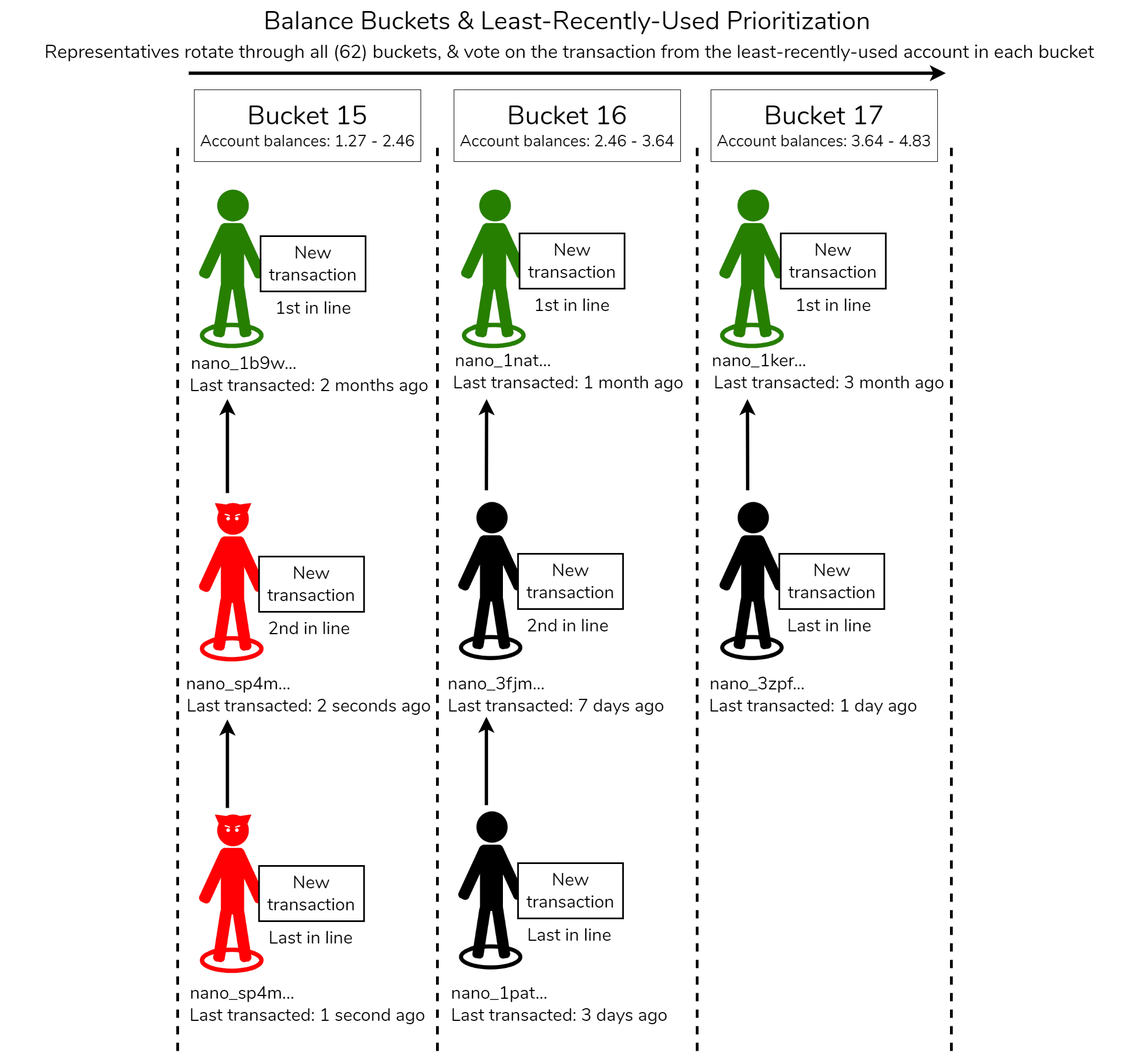
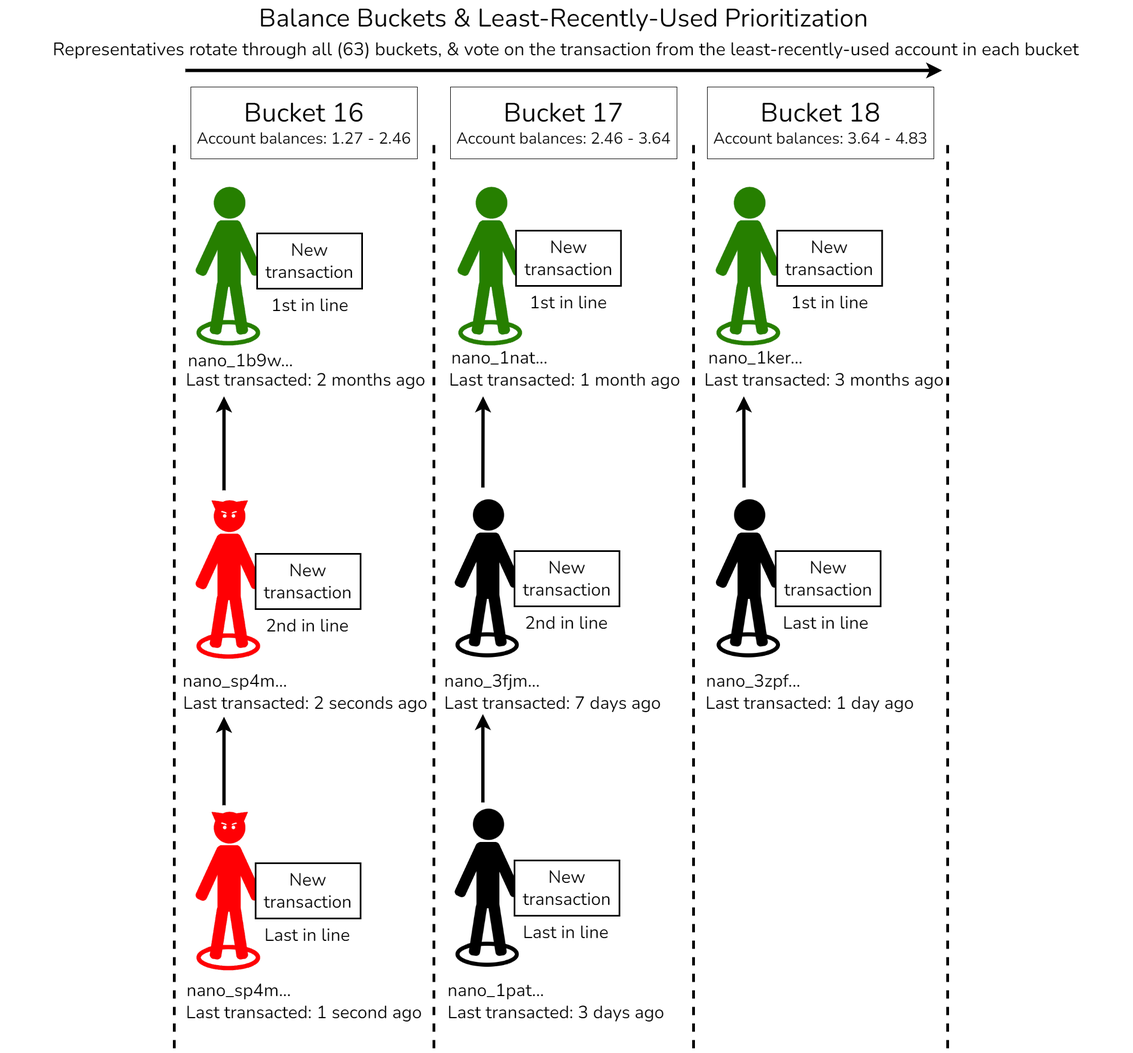
Update "Spam, Work, & Prioritization" page (#706)
Update bucket info & table with V27 numbers

diff --git a/docs/protocol-design/spam-work-and-prioritization.md b/docs/protocol-design/spam-work-and-prioritization.md
@@ -11,6 +11,33 @@ A spam transaction is loosely defined as a block broadcasted with the intent to 
 
 In addition to proof-of-work, another key component of Nano's defense against spam is transaction prioritization using a round-robin balance-bucket system, combined with least-recently-used (LRU) prioritization within those buckets. This system ensures that spam does not prevent legitimate users from making transactions & achieving fast confirmation, which in turn removes some of the incentives to spam (e.g. network disruption). See the [prioritization details](#prioritization-details) & [prioritization buckets](#prioritization-buckets) sections below for more information. While prioritization can be considered a "Node Implementation" topic, it's included in this "Protocol Design" discussion due to its relevance to spam resistance.
 
+## Spam resistance features
+
+Below is a list of some of Nano's key spam mitigation features.
+
+| **Feature** | **Description** | **Version** |
+| - | - | - |
+| [bandwidth_limit](https://github.com/nanocurrency/nano-node/pull/2035) | Restricts outbound bandwidth to a user-configurable limit. 10 MB/s by default. | V19+ |
+| [Balance tiers (buckets)](https://github.com/nanocurrency/nano-node/pull/3208) | As of V27, there are 63 balance tiers (buckets) that nodes rotate through in a round-robin manner. Spamming a single bucket (e.g. Ӿ0.0001) has minimal impact on accounts in other buckets (e.g. Ӿ1, Ӿ5, etc). See [prioritization details](#prioritization-details) below. | V22+ |
+| [Bootstrap limits](https://github.com/nanocurrency/nano-node/pull/4158) | Configurable ascended bootstrapper limits via requests_limit, database_requests_limit, pull_count, timeout, [bootstrap_bandwidth_limit](https://github.com/nanocurrency/nano-node/blob/develop/nano/node/nodeconfig.hpp#L129-L130), [bootstrap_connections_max](https://github.com/nanocurrency/nano-node/blob/develop/nano/node/nodeconfig.hpp#L100-L101), etc. Default outbound bootstrap traffic limit is 5MB/s. Default max incoming bootstrap connections count is 64 (lower values save IOPs & bandwidth). | V25+ |
+| [Bounded active election buckets](https://github.com/nanocurrency/nano-node/pull/4626) | Limits election bucket size and allows for dynamically dropping and scheduling higher priority elections. Buckets can be configured to opportunistically use more available space if AEC is underutilized. | V27+ |
+| [Bounded unchecked memory table](https://github.com/nanocurrency/nano-node/pull/3835) | Add a memory container for unchecked blocks once the initial bootstrap threshold is reached, with blocks pruned in FIFO order. Limited to two items per dependency. | V23.3+ |
+| [Fair queueing](https://github.com/nanocurrency/nano-node/pull/4476) | Each peer (node) & each component (e.g. [block processor](https://github.com/nanocurrency/nano-node/pull/4476), [vote processor](https://github.com/nanocurrency/nano-node/pull/4536), [bootstrap server](https://github.com/nanocurrency/nano-node/pull/4584), [request aggregator](https://github.com/nanocurrency/nano-node/pull/4598), etc) gets its own small queue with a configurable size & priority. Nodes process these queues in a (weighted) round robin manner. This ensures that even when network is under stress, data coming from well-behaved peers is ingested quickly. | V27+ |
+| [Final vote replies](https://github.com/nanocurrency/nano-node/pull/4648) | For blocks that are marked as final or confirmed, nodes will only respond with final votes (not non-final votes). This signficantly reduces network (specifically voting) traffic. | V27+ |
+| [Hinted elections](https://github.com/nanocurrency/nano-node/pull/3944) | A percentage of election slots are reserved for hinted elections, meaning that nodes start elections for transactions with a high vote weight, regardless of individual node priority. This allows the network to progress forward on confirmations, keeping the network in sync. | V24+ |
+| [Hinted elections for dependencies](https://github.com/nanocurrency/nano-node/pull/4312) | The hinted election scheduler now detects cases when the node falls behind the network and is missing confirmations for block dependencies, and then activates elections for the blocks that were missed. | V26+ |
+| [is_originator flag](https://github.com/nanocurrency/nano-node/pull/4654) | Adds a flag to publish messages that identifies if a block is from a node that performed the initial flooding. Helps ensure original blocks get priority over republished blocks. | V27+ |
+| [Lazy bootstrapping](https://github.com/nanocurrency/nano-node/pull/1332) | Similar to optimistic elections, but for bootstrapping. Passively listens for votes on the real-time network, and confirms block dependencies if the (more recent) block is confirmed. | V17+ |
+| [Least-Recently Used (LRU) Prioritization](https://github.com/nanocurrency/nano-node/pull/3208) | Within a given balance tier (bucket), the least-recently-used account has the highest priority. | V22+ |
+| [Local block broadcaster](https://github.com/nanocurrency/nano-node/pull/4454) | Only rebroadcast blocks during active elections. Move initial block gossip responsibility to the block originator. | V27+ |
+| [message_deserializer checks](https://github.com/nanocurrency/nano-node/blob/develop/nano/node/transport/message_deserializer.cpp) | Check for correct message formats before full processing (valid work, valid header, valid message type, valid version, valid network bytes (magic bytes), etc). | All |
+| [Optimistic elections](https://github.com/nanocurrency/nano-node/pull/4111) | If a more recent block is confirmed, all of its dependencies are also confirmed. | V25+ |
+| [Prevent requeuing of blocks with invalid signatures](https://github.com/nanocurrency/nano-node/pull/4130) | Requeueing of blocks with invalid signatures during lazy bootstrapping is not needed, since an invalid signature will always be invalid and doesn't need to be bootstrapped again. | V25+ |
+| [Proof-of-Work](https://github.com/nanocurrency/nano-node/blob/develop/nano/lib/work.cpp) | Each Nano transaction requires a small Proof-of-Work. | All
+| [Rep crawler overhaul](https://github.com/nanocurrency/nano-node/pull/4449#issuecomment-1968919321) | Consistently find representatives, even when vote requests are unreliable | V27+ |
+| [Vote by hash](https://github.com/nanocurrency/nano-node/pull/1025) | Instead of voting with a full block (256 bytes), representatives vote with block hashes (32 bytes), and batch these hashes. As of V27, nodes can vote for up to [255 hashes](https://github.com/nanocurrency/nano-node/pull/4683) in a single vote. | V15+ |
+| [(Future) Additional improvements](https://github.com/nanocurrency/nano-node/issues/4262) | See list of potential future improvements that have been noted for additional research. | Future |
+  
 ## Work algorithm details
 
 Every [block](../blocks) includes a work field that must be correctly populated. Valid work is obtained by randomly guessing a nonce such that:
@@ -47,12 +74,12 @@ Additional requirements of parameter flexibility, constrained parallelism, and b
 
 ## Prioritization details
 
-As of V24, Nano representatives rotate (round-robin) through 62 balance-based buckets when voting on transactions, and the least-recently-used (LRU) accounts in each bucket have the most priority (within their bucket). For example, if an account with 1 XNO and another account with 5 XNO both make two transactions, Nano representatives will vote on one transaction from the 1 XNO bucket, and one transaction from the 5 XNO bucket, before voting on a second transaction from the same bucket. Furthermore, the least-recently-used account within a bucket has the most priority (in that bucket), so after an account makes a transaction it gets moved to the back of the line behind everyone else (in that bucket). This means that if an attacker tries to send thousands of transactions from an account that only has 0.00001 Nano (for example), other accounts in the 0.00001 bucket that don't make frequent transactions will have priority over the spam, and the 0.00001 bucket spam will have no impact on accounts in other balance-buckets (e.g. 1 XNO).
+As of V27, Nano representatives rotate (round-robin) through 63 balance-based buckets when voting on transactions, and the least-recently-used (LRU) accounts in each bucket have the most priority (within their bucket). For example, if an account with 1 XNO and another account with 5 XNO both make two transactions, Nano representatives will vote on one transaction from the 1 XNO bucket, and one transaction from the 5 XNO bucket, before voting on a second transaction from the same bucket. Furthermore, the least-recently-used account within a bucket has the most priority (in that bucket), so after an account makes a transaction it gets moved to the back of the line behind everyone else (in that bucket). This means that if an attacker tries to send thousands of transactions from an account that only has 0.00001 Nano (for example), other accounts in the 0.00001 bucket that don't make frequent transactions will have priority over the spam, and the 0.00001 bucket spam will have no impact on accounts in other balance-buckets (e.g. 1 XNO).
 
 !!! info "Balance-based Buckets"
 	Prioritization buckets are split by _account balances_, not transaction amounts
 
-Prior to V24, there were 129 balance buckets[^4], with the majority (89) of those buckets being for balances under 0.0003. Since most legitimate users tend to have balances larger than that, this meant that most of the balance buckets were minimally used. In V24 however, there are now 62 balance buckets[^3][^5], & account balances under 0.0003 all share the same bucket. This means that there are a lot more buckets for typical real-world account balances now, which helps prioritize legitimate transactions over spam.
+Prior to V24, there were 129 balance buckets[^4], with the majority (89) of those buckets being for balances under 0.0003. Since most legitimate users tend to have larger balances, most of these 89 balance buckets were minimally used. In V24 this was updated to 62 balance buckets[^3][^5], & account balances under 0.0003 shared the same bucket. This created more buckets around typical real-world account balances, helping prioritize legitimate transactions over spam. V27 added an additional bucket (Ӿ0.000001 to Ӿ0.0003) to account for common wallet and faucet minimums[^6].
 
 The following image illustrates the balance bucket & least-recently-used prioritization process:
 
@@ -60,72 +87,73 @@ The following image illustrates the balance bucket & least-recently-used priorit
 
 ## Prioritization buckets
 
-Here are the 62 balance buckets in the reference node implementation, based on the V24 source code[^3].
+Here are the 63 balance buckets in the reference node implementation, based on the V27 source code[^6]. Table values truncated for readability:
 
 | **Bucket Number** | **Bucket Region (uint128)** | **Bucket Range (Nano)** | **Bucket Range (Raw)** |
-| - | - | - | - |
-| 0 | 0 - 2^88 |0.0 - 0.0003094850098213451 | 0 - 309485009821345068724781056 |
-| 1 | 2^88 - 2^92 | 0.0003094850098213451 - 0.002630622583481433 | 309485009821345068724781056 - 2630622583481433084160638976 |
-| 2 | 2^88 - 2^92 | 0.002630622583481433 - 0.0049517601571415215 | 2630622583481433084160638976 - 4951760157141521099596496896 |
-| 3 | 2^92 - 2^96 | 0.0049517601571415215 - 0.023520860746422224 | 4951760157141521099596496896 - 23520860746422225223083360256 |
-| 4 | 2^92 - 2^96 | 0.023520860746422224 - 0.042089961335702926 | 23520860746422225223083360256 - 42089961335702929346570223616 |
-| 5 | 2^92 - 2^96 | 0.042089961335702926 - 0.06065906192498363 | 42089961335702929346570223616 - 60659061924983633470057086976 |
-| 6 | 2^92 - 2^96 | 0.06065906192498363 - 0.07922816251426434 | 60659061924983633470057086976 - 79228162514264337593543950336 |
-| 7 | 2^96 - 2^100 | 0.07922816251426434 - 0.22778096722850996 | 79228162514264337593543950336 - 227780967228509970581438857216 |
-| 8 | 2^96 - 2^100 | 0.22778096722850996 - 0.3763337719427556 | 227780967228509970581438857216 - 376333771942755603569333764096 |
-| 9 | 2^96 - 2^100 | 0.3763337719427556 - 0.5248865766570012 | 376333771942755603569333764096 - 524886576657001236557228670976 |
-| 10 | 2^96 - 2^100 | 0.5248865766570012 - 0.6734393813712468 | 524886576657001236557228670976 - 673439381371246869545123577856 |
-| 11 | 2^96 - 2^100 | 0.6734393813712468 - 0.8219921860854925 | 673439381371246869545123577856 - 821992186085492502533018484736 |
-| 12 | 2^96 - 2^100 | 0.8219921860854925 - 0.9705449907997381 | 821992186085492502533018484736 - 970544990799738135520913391616 |
-| 13 | 2^96 - 2^100 | 0.9705449907997381 - 1.1190977955139838 | 970544990799738135520913391616 - 1119097795513983768508808298496 |
-| 14 | 2^96 - 2^100 | 1.1190977955139838 - 1.2676506002282295 | 1119097795513983768508808298496 - 1267650600228229401496703205376 |
-| 15 | 2^100 - 2^104 | 1.2676506002282295 - 2.4560730379421947 | 1267650600228229401496703205376 - 2456073037942194465399862460416 |
-| 16 | 2^100 - 2^104 | 2.4560730379421947 - 3.6444954756561594 | 2456073037942194465399862460416 - 3644495475656159529303021715456 |
-| 17 | 2^100 - 2^104 | 3.6444954756561594 - 4.8329179133701246 | 3644495475656159529303021715456 - 4832917913370124593206180970496 |
-| 18 | 2^100 - 2^104 | 4.8329179133701246 - 6.021340351084089 |4832917913370124593206180970496 - 6021340351084089657109340225536 |
-| 19 | 2^100 - 2^104 | 6.021340351084089 - 7.209762788798055 | 6021340351084089657109340225536 - 7209762788798054721012499480576 |
-| 20 | 2^100 - 2^104 | 7.209762788798055 - 8.39818522651202 | 7209762788798054721012499480576 - 8398185226512019784915658735616 |
-| 21 | 2^100 - 2^104 | 8.39818522651202 - 9.586607664225985 | 8398185226512019784915658735616 - 9586607664225984848818817990656 |
-| 22 | 2^100 - 2^104 | 9.586607664225985 - 10.775030101939949 | 9586607664225984848818817990656 - 10775030101939949912721977245696 |
-| 23 | 2^100 - 2^104 | 10.775030101939949 - 11.963452539653915 | 10775030101939949912721977245696 - 11963452539653914976625136500736 |
-| 24 | 2^100 - 2^104 | 11.963452539653915 - 13.15187497736788 | 11963452539653914976625136500736 - 13151874977367880040528295755776 |
-| 25 | 2^100 - 2^104 | 13.15187497736788 - 14.340297415081846 | 13151874977367880040528295755776 - 14340297415081845104431455010816 |
-| 26 | 2^100 - 2^104 | 14.340297415081846 - 15.52871985279581 | 14340297415081845104431455010816 - 15528719852795810168334614265856 |
-| 27 | 2^100 - 2^104 | 15.52871985279581 - 16.717142290509774 | 15528719852795810168334614265856 - 16717142290509775232237773520896 |
-| 28 | 2^100 - 2^104 | 16.717142290509774 - 17.90556472822374 | 16717142290509775232237773520896 - 17905564728223740296140932775936 |
-| 29 | 2^100 - 2^104 | 17.90556472822374 - 19.093987165937705 | 17905564728223740296140932775936 - 19093987165937705360044092030976 |
-| 30 | 2^100 - 2^104 | 19.093987165937705 - 20.282409603651672 | 19093987165937705360044092030976 - 20282409603651670423947251286016 |
-| 31 | 2^104 - 2^108 | 20.282409603651672 - 39.297168607075115 | 20282409603651670423947251286016 - 39297168607075111446397799366656 |
-| 32 | 2^104 - 2^108 | 39.297168607075115 - 58.31192761049855 | 39297168607075111446397799366656 - 58311927610498552468848347447296 |
-| 33 | 2^104 - 2^108 | 58.31192761049855 - 77.32668661392199 | 58311927610498552468848347447296 - 77326686613921993491298895527936 |
-| 34 | 2^104 - 2^108 | 77.32668661392199 - 96.34144561734543 | 77326686613921993491298895527936 - 96341445617345434513749443608576 |
-| 35 | 2^104 - 2^108 | 96.34144561734543 - 115.35620462076888 | 96341445617345434513749443608576 - 115356204620768875536199991689216 |
-| 36 | 2^104 - 2^108 | 115.35620462076888 - 134.3709636241923 | 115356204620768875536199991689216 - 134370963624192316558650539769856 |
-| 37 | 2^104 - 2^108 | 134.3709636241923 - 153.38572262761576 | 134370963624192316558650539769856 - 153385722627615757581101087850496 |
-| 38 | 2^104 - 2^108 | 153.38572262761576 - 172.40048163103918 | 153385722627615757581101087850496 - 172400481631039198603551635931136 |
-| 39 | 2^104 - 2^108 | 172.40048163103918 - 191.41524063446263 | 172400481631039198603551635931136 - 191415240634462639626002184011776 |
-| 40 | 2^104 - 2^108 | 191.41524063446263 - 210.42999963788608 | 191415240634462639626002184011776 - 210429999637886080648452732092416 |
-| 41 | 2^104 - 2^108 | 210.42999963788608 - 229.44475864130953 | 210429999637886080648452732092416 - 229444758641309521670903280173056 |
-| 42 | 2^104 - 2^108 | 229.44475864130953 - 248.45951764473295 | 229444758641309521670903280173056 - 248459517644732962693353828253696 |
-| 43 | 2^104 - 2^108 | 248.45951764473295 - 267.4742766481564 | 248459517644732962693353828253696 - 267474276648156403715804376334336 |
-| 44 | 2^104 - 2^108 | 267.4742766481564 - 286.48903565157985 | 267474276648156403715804376334336 - 286489035651579844738254924414976 |
-| 45 | 2^104 - 2^108 | 286.48903565157985 - 305.5037946550033 | 286489035651579844738254924414976 - 305503794655003285760705472495616 |
-| 46 | 2^104 - 2^108 | 305.5037946550033 - 324.51855365842675 | 305503794655003285760705472495616 - 324518553658426726783156020576256 |
-| 47 | 2^108 - 2^112 | 324.51855365842675 - 932.9908417679768 | 324518553658426726783156020576256 - 932990841767976839501573559156736 |
-| 48 | 2^108 - 2^112 | 932.9908417679768 - 1,541.4631298775269 | 932990841767976839501573559156736 - 1541463129877526952219991097737216 |
-| 49 | 2^108 - 2^112 | 1,541.4631298775269 - 2,149.935417987077 | 1541463129877526952219991097737216 - 2149935417987077064938408636317696 |
-| 50 | 2^108 - 2^112 | 2,149.935417987077 - 2,758.407706096627 | 2149935417987077064938408636317696 - 2758407706096627177656826174898176 |
-| 51 | 2^108 - 2^112 | 2,758.407706096627 - 3,366.8799942061773 | 2758407706096627177656826174898176 - 3366879994206177290375243713478656 |
-| 52 | 2^108 - 2^112 | 3,366.8799942061773 - 3,975.3522823157273 | 3366879994206177290375243713478656 - 3975352282315727403093661252059136 |
-| 53 | 2^108 - 2^112 | 3,975.3522823157273 - 4,583.824570425278 | 3975352282315727403093661252059136 - 4583824570425277515812078790639616 |
-| 54 | 2^108 - 2^112 | 4,583.824570425278 - 5,192.296858534828 | 4583824570425277515812078790639616 - 5192296858534827628530496329220096 |
-| 55 | 2^112 - 2^116 | 5,192.296858534828 - 24,663.41007804043 | 5192296858534827628530496329220096 - 24663410078040431235519857563795456 |
-| 56 | 2^112 - 2^116 | 24,663.41007804043 - 44,134.52329754603 | 24663410078040431235519857563795456 - 44134523297546034842509218798370816 |
-| 57 | 2^112 - 2^116 | 44,134.52329754603 - 63,605.63651705164 | 44134523297546034842509218798370816 - 63605636517051638449498580032946176 |
-| 58 | 2^112 - 2^116 | 63,605.63651705164 - 83,076.74973655725 | 63605636517051638449498580032946176 - 83076749736557242056487941267521536 |
-| 59 | 2^116 - 2^120 | 83,076.74973655725 - 706,152.3727607365 | 83076749736557242056487941267521536 - 706152372760736557480147500773933056 |
-| 60 | 2^116 - 2^120 | 706,152.3727607365 - 1,329,227.995784916 | 706152372760736557480147500773933056 - 1329227995784915872903807060280344576 |
-| 61 | 2^120 - 2^128 | 1,329,227.995784916 - 340,282,366.9209385 | 1329227995784915872903807060280344576 - 340282366920938463463374607431768211456 |
+|:-:|:-:| - | - |
+| 0 | 0 - 2^79 | 0.0000000000000 - 0.0000006044629 | 0 - 604462909807314587353088 |
+| 1 | 2^79 - 2^88 | 0.0000006044629 - 0.0003094850098 | 604462909807314587353088 - 309485009821345068724781056 |
+| 2 | 2^88 - 2^92 | 0.0003094850098 - 0.0026306225834 | 309485009821345068724781056 - 2630622583481433084160638976 |
+| 3 | 2^88 - 2^92 | 0.0026306225834 - 0.0049517601571 | 2630622583481433084160638976 - 4951760157141521099596496896 |
+| 4 | 2^92 - 2^96 | 0.0049517601571 - 0.0235208607464 | 4951760157141521099596496896 - 23520860746422225223083360256 |
+| 5 | 2^92 - 2^96 | 0.0235208607464 - 0.0420899613357 | 23520860746422225223083360256 - 42089961335702929346570223616 |
+| 6 | 2^92 - 2^96 | 0.0420899613357 - 0.0606590619249 | 42089961335702929346570223616 - 60659061924983633470057086976 |
+| 7 | 2^92 - 2^96 | 0.0606590619249 - 0.0792281625142 | 60659061924983633470057086976 - 79228162514264337593543950336 |
+| 8 | 2^96 - 2^100 | 0.0792281625142 - 0.2277809672285 | 79228162514264337593543950336 - 227780967228509970581438857216  |
+| 9 | 2^96 - 2^100 | 0.2277809672285 - 0.3763337719427 | 227780967228509970581438857216 - 376333771942755603569333764096 |
+| 10 | 2^96 - 2^100 | 0.3763337719427 - 0.5248865766570 | 376333771942755603569333764096 - 524886576657001236557228670976 |
+| 11 | 2^96 - 2^100 | 0.5248865766570 - 0.6734393813712 | 524886576657001236557228670976 - 673439381371246869545123577856 |
+| 12 | 2^96 - 2^100 | 0.6734393813712 - 0.8219921860854 | 673439381371246869545123577856 - 821992186085492502533018484736 |
+| 13 | 2^96 - 2^100 | 0.8219921860854 - 0.9705449907997 | 821992186085492502533018484736 - 970544990799738135520913391616 |
+| 14 | 2^96 - 2^100 | 0.9705449907997 - 1.1190977955139 | 970544990799738135520913391616 - 1119097795513983768508808298496 |
+| 15 | 2^96 - 2^100 | 1.1190977955139 - 1.2676506002282 | 1119097795513983768508808298496 - 1267650600228229401496703205376 |
+| 16 | 2^100 - 2^104 | 1.2676506002282 - 2.4560730379421 | 1267650600228229401496703205376 - 2456073037942194465399862460416 |
+| 17 | 2^100 - 2^104 | 2.4560730379421 - 3.6444954756561 | 2456073037942194465399862460416 - 3644495475656159529303021715456 |
+| 18 | 2^100 - 2^104 | 3.6444954756561 - 4.8329179133701 | 3644495475656159529303021715456 - 4832917913370124593206180970496 |
+| 19 | 2^100 - 2^104 | 4.8329179133701 - 6.0213403510840 | 4832917913370124593206180970496 - 6021340351084089657109340225536 |
+| 20 | 2^100 - 2^104 | 6.0213403510840 - 7.2097627887980 | 6021340351084089657109340225536 - 7209762788798054721012499480576 |
+| 21 | 2^100 - 2^104 | 7.2097627887980 - 8.3981852265120 | 7209762788798054721012499480576 - 8398185226512019784915658735616 |
+| 22 | 2^100 - 2^104 | 8.3981852265120 - 9.5866076642259 | 8398185226512019784915658735616 - 9586607664225984848818817990656 |
+| 23 | 2^100 - 2^104 | 9.5866076642259 - 10.775030101939 | 9586607664225984848818817990656 - 10775030101939949912721977245696 |
+| 24 | 2^100 - 2^104 | 10.775030101939 - 11.963452539653 | 10775030101939949912721977245696 - 11963452539653914976625136500736 |
+| 25 | 2^100 - 2^104 | 11.963452539653 - 13.151874977367 | 11963452539653914976625136500736 - 13151874977367880040528295755776 |
+| 26 | 2^100 - 2^104 | 13.151874977367 - 14.340297415081 | 13151874977367880040528295755776 - 14340297415081845104431455010816 |
+| 27 | 2^100 - 2^104 | 14.340297415081 - 15.528719852795 | 14340297415081845104431455010816 - 15528719852795810168334614265856 |
+| 28 | 2^100 - 2^104 | 15.528719852795 - 16.717142290509 | 15528719852795810168334614265856 - 16717142290509775232237773520896 |
+| 29 | 2^100 - 2^104 | 16.717142290509 - 17.905564728223 | 16717142290509775232237773520896 - 17905564728223740296140932775936 |
+| 30 | 2^100 - 2^104 | 17.905564728223 - 19.093987165937 | 17905564728223740296140932775936 - 19093987165937705360044092030976 |
+| 31 | 2^100 - 2^104 | 19.093987165937 - 20.282409603651 | 19093987165937705360044092030976 - 20282409603651670423947251286016 |
+| 32 | 2^104 - 2^108 | 20.282409603651 - 39.297168607075 | 20282409603651670423947251286016 - 39297168607075111446397799366656 |
+| 33 | 2^104 - 2^108 | 39.297168607075 - 58.311927610498 | 39297168607075111446397799366656 - 58311927610498552468848347447296 |
+| 34 | 2^104 - 2^108 | 58.311927610498 - 77.326686613921 | 58311927610498552468848347447296 - 77326686613921993491298895527936 |
+| 35 | 2^104 - 2^108 | 77.326686613921 - 96.341445617345 | 77326686613921993491298895527936 - 96341445617345434513749443608576 |
+| 36 | 2^104 - 2^108 | 96.341445617345 - 115.35620462076 | 96341445617345434513749443608576 - 115356204620768875536199991689216 |
+| 37 | 2^104 - 2^108 | 115.35620462076 - 134.37096362419 | 115356204620768875536199991689216 - 134370963624192316558650539769856 |
+| 38 | 2^104 - 2^108 | 134.37096362419 - 153.38572262761 | 134370963624192316558650539769856 - 153385722627615757581101087850496 |
+| 39 | 2^104 - 2^108 | 153.38572262761 - 172.40048163103 | 153385722627615757581101087850496 - 172400481631039198603551635931136 |
+| 40 | 2^104 - 2^108 | 172.40048163103 - 191.41524063446 | 172400481631039198603551635931136 - 191415240634462639626002184011776 |
+| 41 | 2^104 - 2^108 | 191.41524063446 - 210.42999963788 | 191415240634462639626002184011776 - 210429999637886080648452732092416 |
+| 42 | 2^104 - 2^108 | 210.42999963788 - 229.44475864130 | 210429999637886080648452732092416 - 229444758641309521670903280173056 |
+| 43 | 2^104 - 2^108 | 229.44475864130 - 248.45951764473 | 229444758641309521670903280173056 - 248459517644732962693353828253696 |
+| 44 | 2^104 - 2^108 | 248.45951764473 - 267.47427664815 | 248459517644732962693353828253696 - 267474276648156403715804376334336 |
+| 45 | 2^104 - 2^108 | 267.47427664815 - 286.48903565157 | 267474276648156403715804376334336 - 286489035651579844738254924414976 |
+| 46 | 2^104 - 2^108 | 286.48903565157 - 305.50379465500 | 286489035651579844738254924414976 - 305503794655003285760705472495616 |
+| 47 | 2^104 - 2^108 | 305.50379465500 - 324.51855365842 | 305503794655003285760705472495616 - 324518553658426726783156020576256 |
+| 48 | 2^108 - 2^112 | 324.51855365842 - 932.99084176797 | 324518553658426726783156020576256 - 932990841767976839501573559156736 |
+| 49 | 2^108 - 2^112 | 932.99084176797 - 1,541.463129877 | 932990841767976839501573559156736 - 1541463129877526952219991097737216 |
+| 50 | 2^108 - 2^112 | 1,541.463129877 - 2,149.935417987 | 1541463129877526952219991097737216 - 2149935417987077064938408636317696 |
+| 51 | 2^108 - 2^112 | 2,149.935417987 - 2,758.407706096 | 2149935417987077064938408636317696 - 2758407706096627177656826174898176 |
+| 52 | 2^108 - 2^112 | 2,758.407706096 - 3,366.879994206 | 2758407706096627177656826174898176 - 3366879994206177290375243713478656 |
+| 53 | 2^108 - 2^112 | 3,366.879994206 - 3,975.352282315 | 3366879994206177290375243713478656 - 3975352282315727403093661252059136 |
+| 54 | 2^108 - 2^112 | 3,975.352282315 - 4,583.824570425 | 3975352282315727403093661252059136 - 4583824570425277515812078790639616 |
+| 55 | 2^108 - 2^112 | 4,583.824570425 - 5,192.296858534 | 4583824570425277515812078790639616 - 5192296858534827628530496329220096 |
+| 56 | 2^112 - 2^116 | 5,192.296858534 - 24,663.41007804 | 5192296858534827628530496329220096 - 24663410078040431235519857563795456 |
+| 57 | 2^112 - 2^116 | 24,663.41007804 - 44,134.52329754 | 24663410078040431235519857563795456 - 44134523297546034842509218798370816 |
+| 58 | 2^112 - 2^116 | 44,134.52329754 - 63,605.63651705 | 44134523297546034842509218798370816 - 63605636517051638449498580032946176 |
+| 59 | 2^112 - 2^116 | 63,605.63651705 - 83,076.74973655 | 63605636517051638449498580032946176 - 83076749736557242056487941267521536 |
+| 60 | 2^116 - 2^120 | 83,076.74973655 - 706,152.3727607 | 83076749736557242056487941267521536 - 706152372760736557480147500773933056 |
+| 61 | 2^116 - 2^120 | 706,152.3727607 - 1,329,227.99578 | 706152372760736557480147500773933056 - 1329227995784915872903807060280344576 |
+| 62 | 2^120 - 2^128 | 1,329,227.99578 - 340,282,366.920 | 1329227995784915872903807060280344576 - 340282366920938463463374607431768211456 |
 
 ---
 
@@ -145,3 +173,4 @@ Existing content related to this page:
 [^3]: C. LeMahieu et al, "Nanocurrency/Nano-Node - Prioritization.cpp". [Online]. Available: https://github.com/clemahieu/nano-node/blob/releases/v24/nano/node/prioritization.cpp#L46-L73
 [^4]: A. Titan, "All 129 prioritization buckets in Nano", 2021. [Online]. Available: https://www.reddit.com/r/nanocurrency/comments/myf9c2/all_129_prioritization_buckets_in_nano/
 [^5]: P. Luberus, "Visualizing the updated V24 balance buckets (62 prioritization buckets)", 2022. [Online]. Available: https://www.reddit.com/r/nanocurrency/comments/zydm1w/visualizing_the_updated_v24_balance_buckets_62/
+[^6]: Bob, "Add New Bucket for Specific Amount Range", 2024. [Online]. Available: https://github.com/nanocurrency/nano-node/pull/4661
